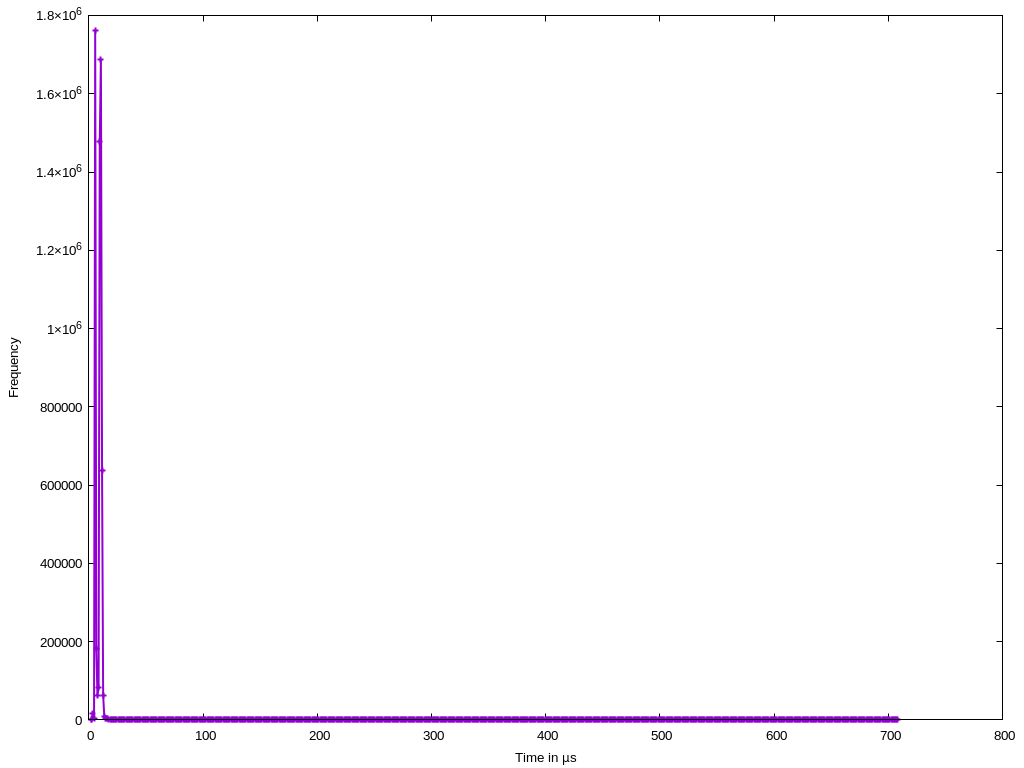
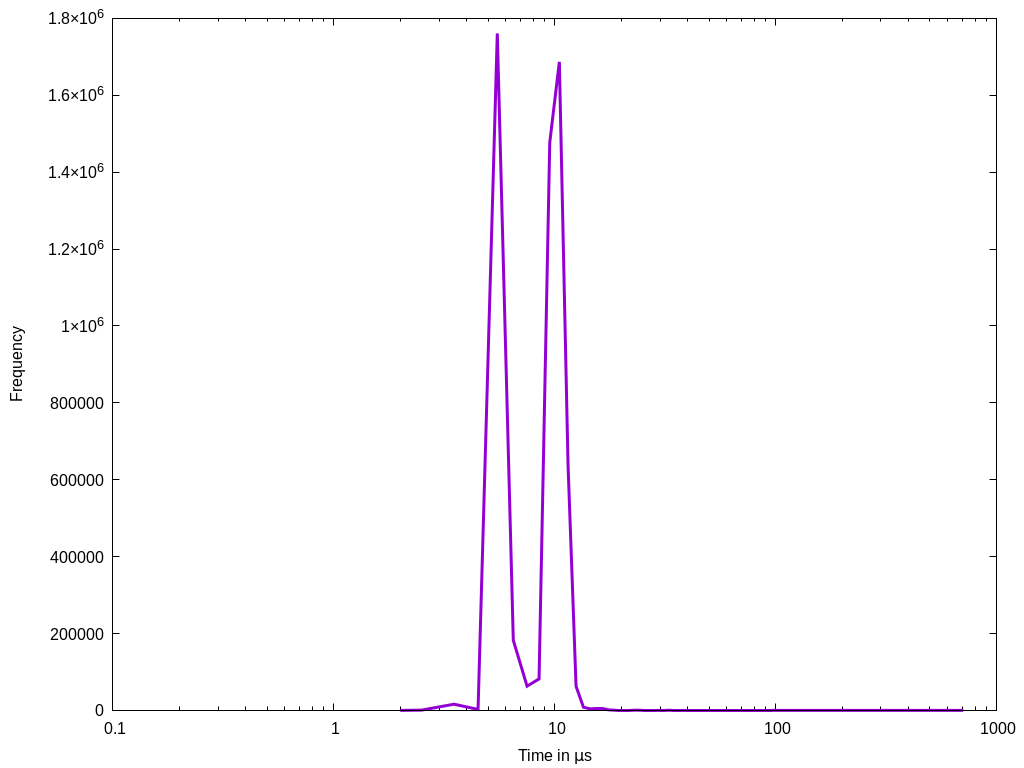
[DRAFT] chapter 4 finished

Changed region(s): [[0.0, 0.0625, 0.9688, 1.0], [0.0312, 0.0, 0.125, 0.0312], [0.9688, 0.9375, 1.0, 0.9688]]

diff --git a/Masterarbeit_Robotik_Pamuk.tex b/Masterarbeit_Robotik_Pamuk.tex
@@ -50,7 +50,6 @@
 \usepackage{pdflscape}
 \usepackage{rotating}
 
-
 %
 % Platzierungsoptionen 
 %
@@ -108,7 +107,7 @@ Das Hauptziel der Arbeit ist es, herauszufinden, wie die Integration von Echtzei
 Kommunikationssystemen in eine Robotersteuerungsplattform die Reaktionszeit und Zuverlässigkeit von
 Roboteranwendungen verbessern kann}
 \schlagworte{Schlagwort1, Schlagwort2, Schlagwort3, Schlagwort4}
-\outline{Sections \ref{sec:salamander4-bare-metal} and \ref{sec:salamander4-virtualisation}  demonstrate the inital real-time latency values gathered for bare metal and virtualisation. 
+\outline{Sections \ref{sec:salamander4-bare-metal} and \ref{sec:salamander4-virtualization}  demonstrate the inital real-time latency values gathered for bare metal and virtualization. 
 }
 \keywords{Echtzeit, Virtualisierung, Xenomai, VARAN}
 %\acknowledgements{\blindtext}
@@ -182,10 +181,10 @@ This section describes in detail all the theoretical concepts and boundary condi
 
 Zu Beginn der Arbeit wurde eine ausführliche Analyse der einzelnen Virtualisierungsmöglichkeiten von Salamander 4 durchgeführt. Im Besonderen wurde hier die Virtualisierungsperformance von Ubuntu 22.04, Windows 10 und WSL unter QEMU verglichen.
 
-First, a comprehensive literature review is conducted to understand the current trends and challenges in real-time robot control. Based on the literature study, a suitable virtualisation platform is selected.
+First, a comprehensive literature review is conducted to understand the current trends and challenges in real-time robot control. Based on the literature study, a suitable virtualization platform is selected.
 
 
-After the selection of the virtualisation platform, the robot control platform is implemented. This step includes the installation and configuration of Salamander OS, Xenomai, QEMU and PCV-521 in the Yocto environment. Once the platform has been implemented, the robot is connected via a VARAN bus interface. Finally, the platform is evaluated to determine how the integration of real-time functions and efficient communication systems improves the response time and reliability of robot applications.
+After the selection of the virtualization platform, the robot control platform is implemented. This step includes the installation and configuration of Salamander OS, Xenomai, QEMU and PCV-521 in the Yocto environment. Once the platform has been implemented, the robot is connected via a VARAN bus interface. Finally, the platform is evaluated to determine how the integration of real-time functions and efficient communication systems improves the response time and reliability of robot applications.
 
 - Evaluation der Virtualisierungsplattform:
 Ich werde verschiedene Virtualisierungsplattformen wie QEMU, Hyper-V, Virtual Box usw. evaluieren. Dies ist ein wichtiger Schritt, um die beste Plattform für meine Anforderungen zu finden.
@@ -283,6 +282,7 @@ Linux sigmatek-core2 5.15.94 #1 SMP PREEMPT IRQPIPE Tue Feb 14 18:18:05 UTC 2023
 \end{figure}
 
 \clearpage
+
 \section{Xenomai}
 \noindent Xenomai 3 \cite{XenomaiXenomai} is a real-time framework that offers two paths to real-time performance. The first approach supplements the Linux kernel with a compact real-time core dubbed Cobalt, demonstrated in Figure \ref{fig:cobalt}. Cobalt runs side-by-side with Linux, but it handles all time-critical activities like interrupt processing and real-time thread scheduling with higher priority than the regular kernel activities. 
 
@@ -309,7 +309,7 @@ Linux sigmatek-core2 5.15.94 #1 SMP PREEMPT IRQPIPE Tue Feb 14 18:18:05 UTC 2023
 
 \chapter{Initial Real-Time Latency}\label{cha:initial-real-time-latency}
 
-As a starting point, initial latency values of both the bare metal and virtualization versions were measured with the latency tool of the xenomai tool suite. Salamander 4 Bare Metal refers to the proprietary hardware of SIGMATEK used to employ the custom operating system. Salamander 4 virtualisation refers to a virtual version of the Salamander 4 hardware platform, achieved through QEMU/KVM. Sections \ref{sec:salamander4-bare-metal} and \ref{sec:salamander4-virtualisation} specify the details of the measurements for both versions. In the further course, the aim was to bring the latency values of the virtualization closer to those of the hardware. 
+As a starting point, initial latency values of both the bare metal and virtualization versions were measured with the latency tool of the xenomai tool suite. Salamander 4 bare metal refers to the proprietary hardware of SIGMATEK used to employ the custom operating system. Salamander 4 virtualization refers to a virtual version of the Salamander 4 hardware platform, achieved through QEMU/KVM. Sections \ref{sec:salamander4-bare-metal} and \ref{sec:salamander4-virtualization} specify the details of the measurements for both versions. In the further course, the aim was to bring the latency values of the virtualization closer to those of the hardware and guarantee deterministic and reliable behavior. 
 
 \section{Salamander 4 Bare Metal}\label{sec:salamander4-bare-metal}
 The output of the command \texttt{uname -a} for Salamander 4 bare metal is shown in code \ref{output:uname_a_hw}.
@@ -322,21 +322,21 @@ Linux sigmatek-core2 5.15.94 #1 SMP PREEMPT IRQPIPE Tue Feb 14 18:18:05 UTC 2023
 \end{lstlisting}
 \end{minipage}
 
-\noindent As a reference point, the latency program was executed on Salamander 4 bare metal for a duration of 10 minutes. The complete command used was \texttt{latency -h -s -T 600}. Figure \ref{fig:max_latency_hardware} shows the gathered latency values in microseconds.
+\noindent As a reference point, the latency program was executed on Salamander 4 bare metal for a duration of 10 minutes. The complete command used was \texttt{latency -h -g gnuplot.txt -T 600}, which runs the latency measurement tool for 600 seconds and prints histograms of min, avg, max latencies in a Gnuplot-compatible format to the file \texttt{gnuplot.txt}. Figure \ref{fig:max_latency_hardware} shows the gathered latency values in microseconds.
 
 \begin{figure}[H]
 	\centering
 	\includegraphics[width=1.0\columnwidth]{img/max_latency_hardware.png}
-	\caption[Latency in hardware]{Latency in hardware}
+	\caption[Latency of Salamander 4 bare metal]{Latency of Salamander 4 bare metal}
 	\label{fig:max_latency_hardware}
 \end{figure}
 
-Figure \ref{fig:gnuplot_max_latency_hardware} depicts the variation in latency over the course of said time. 
+Figure \ref{fig:gnuplot_max_latency_hardware} depicts the variation in latency over the course of said time. Since the data varies strongly, a logarithmic scale was used for both axes.
 
 \begin{figure}[H]
 	\centering
 	\includegraphics[width=0.7\columnwidth]{masterthesis-documentation/docs/sigmatek/xenomai/0hardware/gnuplot_max_latency_hardware.png}
-	\caption[Variation in latency of hardware]{Variation in latency of hardware}
+	\caption[Variation in latency of Salamander 4 bare metal]{Variation in latency of Salamander 4 bare metal}
 	\label{fig:gnuplot_max_latency_hardware}
 \end{figure}
 
@@ -349,7 +349,7 @@ Figure \ref{fig:gnuplot_max_latency_hardware} depicts the variation in latency o
 	\caption{Latency Statistics in microseconds}
 	\label{tab:latency_statistics}
 	\begin{tabular}{|c|c|}\hline
-	\textbf{Statistic} & \textbf{Value (in \textmu s)} \\\hline
+	\textbf{Statistic} & \textbf{Value (\textmu s)} \\\hline
 	Average Latency & 4.06 \\\hline
 	Maximum Latency & 10.71 \\\hline
 	Minimum Latency & 2.82 \\\hline
@@ -357,8 +357,8 @@ Figure \ref{fig:gnuplot_max_latency_hardware} depicts the variation in latency o
 	\end{tabular}
 	\end{table}
 
-\section{Salamander 4 Virtualisation}\label{sec:salamander4-virtualisation}
-In addition to providing Salamander 4 on its own hardware, SIGMATEK has also developed a virtualised version of this operating system. It was developped using Yocto, an open source project that allows customised Linux distributions to be created for embedded systems \cite{WelcomeYoctoProject}. The virtualisation runs in a QEMU environment, which is an open source tool for hardware virtualisation \cite{QEMU}. With the help of the script depicted in code \ref{script:qemu_def}, Salamander 4 is started together with the necessary hardware components in the QEMU environment. This makes it possible to run Salamander 4 on a variety of host systems, regardless of the specific hardware of the host. Upon generating the necessary files, Yocto generates a QEMU folder with the following components shown in code \ref{lst:ls}.
+\section{Salamander 4 Virtualization}\label{sec:salamander4-virtualization}
+In addition to providing Salamander 4 on its own hardware, SIGMATEK has also developed a virtualised version of this operating system. It was developed using Yocto, an open-source project that allows customised Linux distributions to be created for embedded systems \cite{WelcomeYoctoProject}. Upon generating the necessary files, Yocto provides a QEMU folder with the following components shown in code \ref{lst:ls}. QEMU is the environment in which the virtualization runs, as it is an open-source tool for hardware virtualization \cite{QEMU}.
 
 \vspace{1em}
 \begin{minipage}{\linewidth}
@@ -374,43 +374,48 @@ In addition to providing Salamander 4 on its own hardware, SIGMATEK has also dev
     \end{lstlisting}
 \end{minipage}
 
-
-Here is a description of the used components:
+\noindent With the help of the script depicted in code \ref{script:qemu_def}, Salamander 4 is started together with the necessary hardware components in the QEMU environment. This makes it possible to run Salamander 4 on a variety of host systems, regardless of the specific hardware of the host. The following is a description of the components used for the virtualization of Salamander 4:
 \begin{itemize}
-	\item \textbf{bzImage}: Compressed Linux kernel image, loaded by QEMU at system start.
-	\item \textbf{ovmf.code.qcow2}: Firmware file for QEMU, enables UEFI boot process.
-	\item \textbf{qemu\_def.sh}: Shell script, starts QEMU with correct parameters to boot Salamamder 4 OS.
-	\item \textbf{stek-drive-c-image-sigmatek-core2.tar.gz}: Archive containing files for C drive, unpacked and copied to drive-c/ directory by qemu\_def.sh script.
+	\item \textbf{bzImage}: Compressed Linux kernel image that is loaded by QEMU at system start. "bz" stands for big-zipped.
 	\item \textbf{drive-c}: Directory serving as C drive for QEMU system, created and filled by qemu\_def.sh script.
-	\item \textbf{salamander-image-sigmatek-core2.ext4}: Root file system for Salamander 4 OS, used as hard drive for QEMU system.
-	\item \textbf{vmlinux}: Uncompressed Linux kernel image, typically used for debugging, contains debugging symbols not present in bzImage.
+	\item \textbf{ovmf.code.qcow2}: Firmware file for QEMU that enables UEFI boot process. \texttt{OVMF} stands for Open Virtual Machine Firmware, \texttt{qcow2} is a format for disk image files used by QEMU, it stands for "QEMU Copy On Write version 2".
+	\item \textbf{qemu\_def.sh}: Shell script that starts QEMU with required parameters to boot Salamamder 4 OS. It is described in Code \ref{script:qemu_def}.
+	\item \textbf{salamander-image-sigmatek-core2.ext4}: Disk image of the Salamander 4 OS for the Sigmatek Core 2 platform. It uses the \texttt{ext4} file system and serves as the root file system in the QEMU virtual machine, acting as the virtual hard drive.
+	\item \textbf{stek-drive-c-image-sigmatek-core2.tar.gz}: Compressed tarball containing a pre-configured environment for the Salamander 4 OS. It is unpacked and sets up the \texttt{drive-c/} directory with system and log files in the \texttt{qemu\_def.sh} script. 
+	\item \textbf{vmlinux}: Uncompressed Linux kernel image, typically used for debugging.
 \end{itemize}
 
-\noindent The inital QEMU script after the custom Yocto build and the starting point for this work is shown in Code \ref{script:qemu_def}. This script is used to start QEMU with correct parameters to boot Salamamder 4 OS. It will be adjusted in chapter \ref{cha:real-time_tuning} in order to accompany real-time performance tunings. 
+
+\begin{comment}
+	https://www.baeldung.com/linux/kernel-images
+\end{comment}
+
+
+\noindent The inital QEMU script after the custom Yocto build and the starting point for this work is shown in Code \ref{script:qemu_def}. This script is used to start QEMU with required parameters to boot Salamamder 4 OS. It will be adjusted in chapter \ref{cha:real-time_tuning} in order to accompany real-time performance tunings. 
 
 \vspace{1em}
 \begin{minipage}{\linewidth}
-	\begin{lstlisting}[name={QEMU script for starting Salamander 4 virtualisation},label={script:qemu_def}]
-    #!/bin/sh
+	\begin{lstlisting}[name={QEMU script for starting Salamander 4 virtualization},label={script:qemu_def}]
+	#!/bin/sh
 
-    if  [ ! -d drive-c/ ]; then
-            echo "Filling drive-c/"
-            mkdir drive-c/
-            tar -C drive-c/ -xf stek-drive-c-image-sigmatek-core2.tar.gz
-    fi
-    
-    exec  qemu-system-x86_64 -M pc,accel=kvm -kernel ./bzImage \
-    -m 2048 -drive file=salamander-image-sigmatek-core2.ext4,format=raw,media=disk \
-    -append "console=ttyS0 console=tty1 root=/dev/sda rw panic=1 sigmatek_lrt.QEMU=1 ip=dhcp rootfstype=ext4 schedstats=enable" \
-    -net nic,model=e1000,netdev=e1000 -netdev bridge,id=e1000,br=nm-bridge \
-    -fsdev local,security_model=none,id=fsdev0,path=drive-c -device virtio-9p-pci,id=fs0,fsdev=fsdev0,mount_tag=/mnt/drive-C \
-    -device vhost-vsock-pci,guest-cid=3,id=vsock0 \
-    -drive if=pflash,format=qcow2,file=ovmf.code.qcow2 \
-    -no-reboot -nographic
+	if  [ ! -d drive-c/ ]; then
+			echo "Filling drive-c/"
+			mkdir drive-c/
+			tar -C drive-c/ -xf stek-drive-c-image-sigmatek-core2.tar.gz
+	fi
+		
+	exec qemu-system-x86_64 -M pc,accel=kvm -kernel ./bzImage \
+	-m 2048 -drive file=salamander-image-sigmatek-core2.ext4,format=raw,media=disk \
+	-append "console=ttyS0 console=tty1 root=/dev/sda rw panic=1 sigmatek_lrt.QEMU=1 ip=dhcp rootfstype=ext4" \
+	-net nic,model=e1000,netdev=e1000 -netdev bridge,id=e1000,br=nm-bridge \
+	-fsdev local,security_model=none,id=fsdev0,path=drive-c -device virtio-9p-pci,id=fs0,fsdev=fsdev0,mount_tag=/mnt/drive-C \
+	-device vhost-vsock-pci,guest-cid=3,id=vsock0 \
+	-drive if=pflash,format=qcow2,file=ovmf.code.qcow2 \
+	-no-reboot -nographic
 \end{lstlisting}
 \end{minipage}
 
-\noindent The script is run on a generic Ubuntu 22.04.4 system. The kernel version and other details are presented in Code \ref{output:uname_a_ub}, using the \texttt{uname -a} command.
+\noindent This script is run on a generic Ubuntu 22.04.4 system, as mentioned previously in chapter \ref{cha:methodology}. The kernel version and other details are presented in Code \ref{output:uname_a_ub}, using the \texttt{uname -a} command.
 
 \vspace{1em}
 \begin{minipage}{0.95\columnwidth}
@@ -429,7 +434,7 @@ Linux sigma-ibo 6.5.0-35-generic #35~22.04.1-Ubuntu SMP PREEMPT_DYNAMIC Tue May 
 	\label{fig:max_latency_default}
 \end{figure}
 
-Figure \ref{fig:gnuplot_max_latency_default} depicts the variation in latency with default settings over the course of said time. 
+Figure \ref{fig:gnuplot_max_latency_default} depicts the variation in latency over the course of said time with default settings. 
 
 \begin{figure}[H]
 	\centering
@@ -440,22 +445,25 @@ Figure \ref{fig:gnuplot_max_latency_default} depicts the variation in latency wi
 
 \noindent The statistics obtained from this measurement are provided in Table \ref{tab:x}. It gives an overview of the average, maximum, minimum latency, and the standard deviation of the latency values in microseconds. 
 
-\clearpage
-
 \begin{table}[h]
 	\centering
 	\caption{Latency Statistics default in microseconds}
 	\label{tab:x}
 	\begin{tabular}{|c|c|}\hline
-	\textbf{Statistic} & \textbf{Value (in \textmu s)} \\\hline
-	Average Latency & 46.22us \\\hline
-	Maximum Latency & 707.62us \\\hline
-	Minimum Latency & 15.59us \\\hline
-	Standard Deviation & 52.13us \\\hline
+	\textbf{Statistic} & \textbf{Value (\textmu s)} \\\hline
+	Average Latency & 46.22 \\\hline
+	Maximum Latency & 707.62 \\\hline
+	Minimum Latency & 15.59 \\\hline
+	Standard Deviation & 52.13 \\\hline
 	\end{tabular}
 	\end{table}
-\clearpage
 
+\noindent Comparing these values to those of bare metal, it is evident that there is a significant initial gap in the statistics. A maximum latency of 707.62~\textmu s is not tolerable for the system and needs to be tuned. 
+
+
+
+
+\clearpage
 \chapter{Real-Time Performance Tuning}\label{cha:real-time_tuning}
 \section{BIOS Configurations}
 BIOS is firmware used to perform hardware initialization during the booting process. Some BIOS settings can have a significant impact on the real-time performance of the system [2]. The configurations in Table 4 are tuned for real-time performance.
@@ -628,7 +636,7 @@ Once the CPUs were isolated, Interrupt Requests handling was the next step. Inte
 \section{Guest OS Configurations}
 \vspace{1em}
 \begin{minipage}{\linewidth}
-	\begin{lstlisting}[name={QEMU script for starting Salamander 4 virtualisation},label={script:qemu_configuration_optimizations}]
+	\begin{lstlisting}[name={QEMU script for starting Salamander 4 virtualization},label={script:qemu_configuration_optimizations}]
     #!/bin/sh
 
     if  [ ! -d drive-c/ ]; then
@@ -675,7 +683,7 @@ Once the CPUs were isolated, Interrupt Requests handling was the next step. Inte
 
 \chapter{To Include}\label{cha:to_include}
 \section{Latency Comparison}
-In the initial phase, a comparative latency analysis was conducted between the hardware version and the virtualized version of Salamander 4. For this purpose, the latency tool of the Xenomai test suite was used. The latency was measured under two conditions, idle and CPU-stressed. The goal was to optimize the latency of the virtualisation of Salamander 4 OS to closely match that of the bare metal version.
+In the initial phase, a comparative latency analysis was conducted between the hardware version and the virtualized version of Salamander 4. For this purpose, the latency tool of the Xenomai test suite was used. The latency was measured under two conditions, idle and CPU-stressed. The goal was to optimize the latency of the virtualization of Salamander 4 OS to closely match that of the bare metal version.
 
 Vorgehensweise von \cite{linPerformanceEvaluationXenomai}
 \section{else}
@@ -970,7 +978,7 @@ The Figure \ref{fig:latency_comparison} below compares non-optimized guest laten
 
 This can be done by setting the apic flag to 'v' in the VM configuration file.
 
-Figure \ref{fig:kvm_exit_vapic} shows \texttt{kvm\_exit} frequency with APIC virtualisation. Comparing this to the previous Figures \ref{fig:kvm_exit_taskset} and \ref{fig:kvm_exits_default}, it can be observed that an APIC\_Write no longer occurs.
+Figure \ref{fig:kvm_exit_vapic} shows \texttt{kvm\_exit} frequency with APIC virtualization. Comparing this to the previous Figures \ref{fig:kvm_exit_taskset} and \ref{fig:kvm_exits_default}, it can be observed that an APIC\_Write no longer occurs.
 
 
 \begin{figure}[H]

diff --git a/masterthesis-documentation/docs/sigmatek/xenomai/1default/max_latency_default_10min_gnoplot.md b/masterthesis-documentation/docs/sigmatek/xenomai/1default/max_latency_default_10min_gnoplot.md
@@ -1,17 +1,23 @@
 # gnuplot default
 ```bash
 # Set output to a PNG file
-set terminal pngcairo enhanced font 'Arial,10' size 1024,768
+set terminal pngcairo enhanced font 'Arial,12' size 1024,768
 set output 'gnuplot_max_latency_default.png'
 set encoding utf8
 
 # Set the title and labels
 #set title "Latency Distribution"
-set xlabel 'Time in {/Symbol=9 m}s'
+set xlabel 'Time in {/Symbol=12 m}s'
 set ylabel "Frequency"
 
+# Set the range for the x axis
+set xrange [0:1000] # replace 1000 with 800 if you want the range to be until 800
+
+# Set the x axis to logarithmic scale
+set logscale x
+
 # Plot the data with thicker lines
-plot 'max_latency_default_10min.txt' using 1:2 with linespoints linewidth 2 title ''
+plot 'max_latency_default_10min.txt' using 1:2 with lines linewidth 3 title ''
 ```
 
 ![gnuplot_max_latency_default.png](gnuplot_max_latency_default.png)

diff --git a/masterthesis-documentation/docs/sigmatek/xenomai/0hardware/max_latency_hardware_10min_gnoplot.md b/masterthesis-documentation/docs/sigmatek/xenomai/0hardware/max_latency_hardware_10min_gnoplot.md
@@ -1,20 +1,20 @@
 # gnuplot hardware
 ```bash
 # Set output to a PNG file
-set terminal pngcairo enhanced font 'Arial,10'
+set terminal pngcairo enhanced font 'Arial,10' size 1024,768
 set output 'gnuplot_max_latency_hardware.png'
 set encoding utf8
 
 # Set the title and labels
 #set title "Latency Distribution"
-set xlabel 'Time in {/Symbol=9 m}s'
+set xlabel 'Time [{/Symbol=9 m}s]'
 set ylabel "Frequency"
 
 # Calculate statistics
 stats 'max_latency_hardware_10min.txt' using 2 nooutput
 
 # Plot the data with thicker lines
-plot 'max_latency_hardware_10min.txt' using 1:2 with linespoints linewidth 2 title ''
+plot 'max_latency_hardware_10min.txt' using 1:2 with lines linewidth 3 title ''
 ```
 
 ![gnuplot_max_latency_hardware.png](gnuplot_max_latency_hardware.png)

diff --git a/masterthesis-documentation/docs/workflow/meetings/rauh.md b/masterthesis-documentation/docs/workflow/meetings/rauh.md
@@ -1,5 +1,5 @@
 # Rauh Fragen
 
 
-- Code / Groß oder klein?
+- Code / Groß oder klein? oben oder unten?
 - This script will be adjusted 
